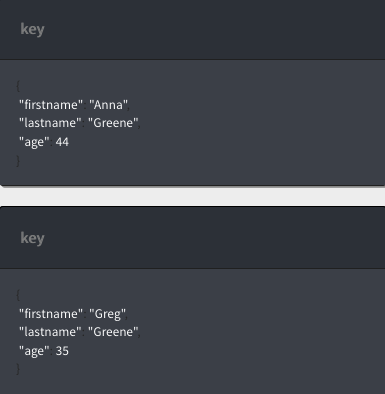
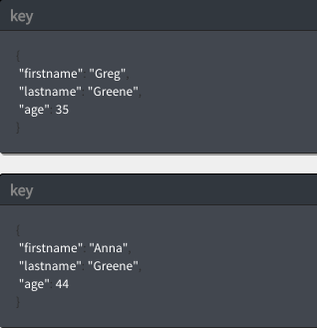
Update query tutorial for fb94932.

diff --git a/tutorials/create_query.md b/tutorials/create_query.md
@@ -285,9 +285,9 @@ To create an index:
   {
     "index": {
       "fields": [
+        "age",
         "firstname",
-        "lastname",
-        "age"        
+        "lastname"
       ]
     },
     "name": "query-index",
@@ -320,9 +320,9 @@ To create an index:
   {
     "index": {
       "fields": [
+        "age",
         "firstname",
-        "lastname",
-        "age"
+        "lastname"
       ]
     },
     "name": "query-index",
@@ -541,10 +541,13 @@ values in the `sort` parameter.
 ```json
     "sort": [
       {
-        "lastname": "asc"
-      },
+        "age": "asc"   
+      },        
       {
         "firstname": "asc"
+      },
+      {
+        "lastname": "asc"
       }
     ] 
 ```    
@@ -569,14 +572,14 @@ values in the `sort` parameter.
     ],
     "sort": [
       {
+        "age": "asc"   
+      },        
+      {
         "firstname": "asc"
       },
       {
         "lastname": "asc"
-      },
-      {
-        "age": "asc"
-      } 
+      }
     ]  
   }
   ```
@@ -592,16 +595,17 @@ values in the `sort` parameter.
   ```json
   {
     "docs": [
-      {
-        "firstname": "Anna",
-        "lastname": "Greene",
-        "age": 44
-      },
-      {
+     {
+        "age": 35,
         "firstname": "Greg",
-        "lastname": "Greene",
-        "age": 35
+        "lastname": "Greene"
       }
+    {
+        "age": 44,
+        "firstname": "Anna",
+        "lastname": "Greene"
+      },
+
     ]
   }
   ```
@@ -628,13 +632,13 @@ values in the `sort` parameter.
     ],
     "sort": [
       {
+        "age": "asc"   
+      },        
+      {
         "firstname": "asc"
       },
       {
         "lastname": "asc"
-      },
-      {
-        "age": "asc"
       }      
     ]   
   }
